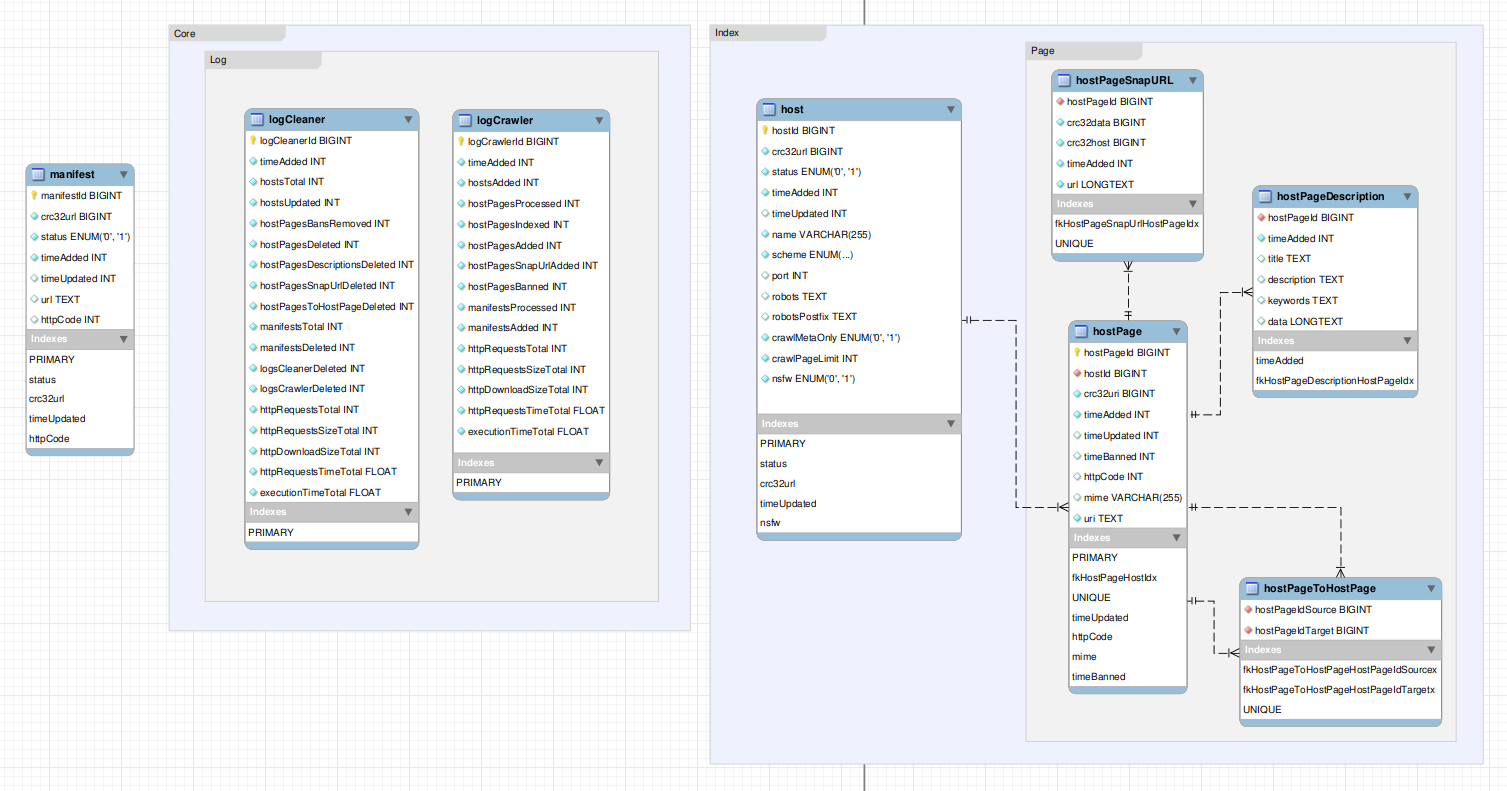
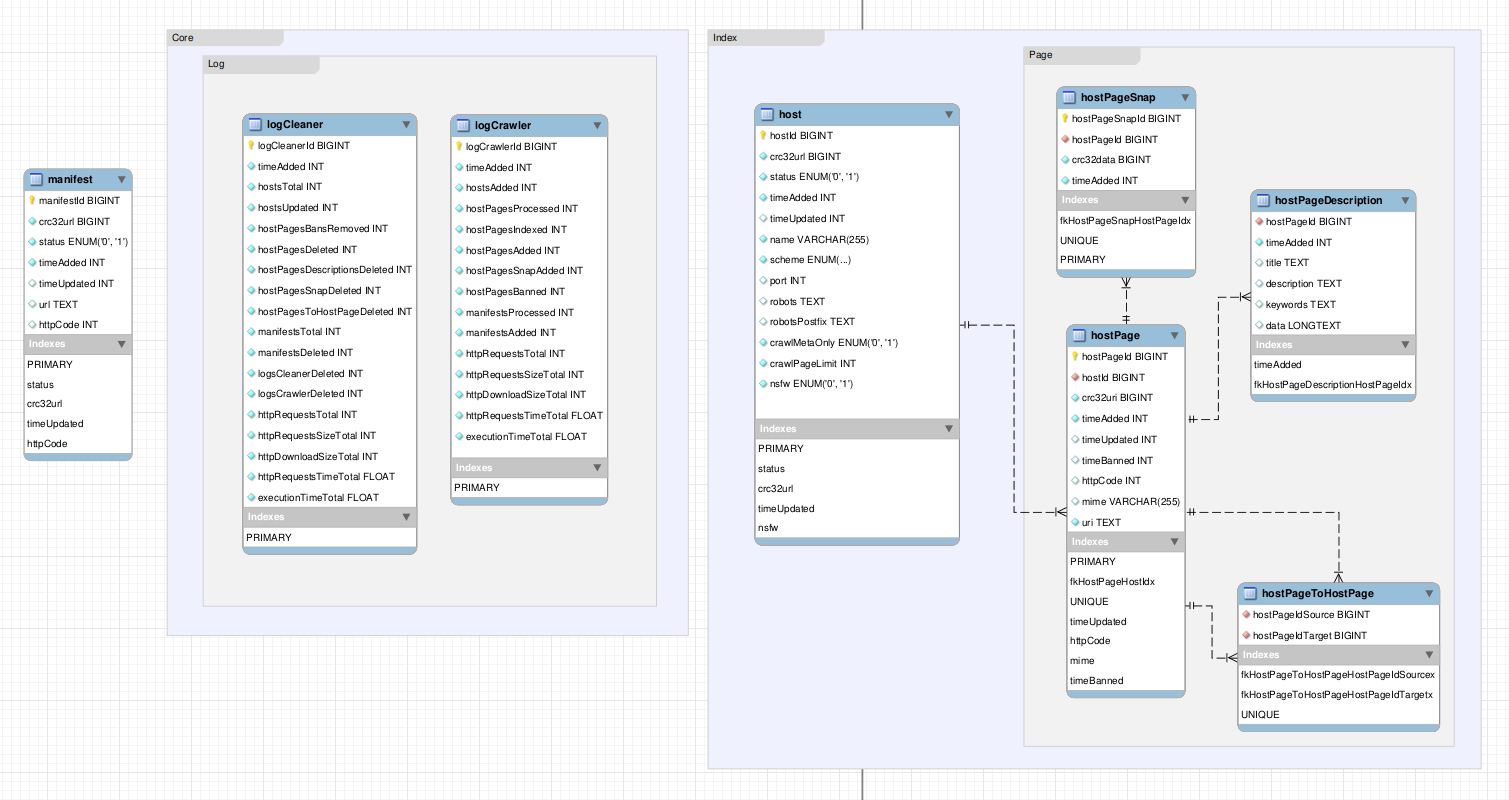
make local snap storage optimization

diff --git a/library/mysql.php b/library/mysql.php
@@ -360,59 +360,49 @@ class MySQL {
     return $query->fetchAll();
   }
 
-  public function addHostPageSnapURL(int $hostPageId,
-                                     int $crc32data,
-                                     int $crc32host,
-                                     string $url,
-                                     int $timeAdded) {
+  public function addHostPageSnap(int $hostPageId, string $crc32data, int $timeAdded) {
 
-    $query = $this->_db->prepare('INSERT IGNORE INTO `hostPageSnapURL` (`hostPageId`,
-                                                                        `crc32data`,
-                                                                        `crc32host`,
-                                                                        `url`,
-                                                                        `timeAdded`) VALUES (?, ?, ?, ?, ?)');
+    $query = $this->_db->prepare('INSERT IGNORE INTO `hostPageSnap` (`hostPageId`,
+                                                                     `crc32data`,
+                                                                     `timeAdded`) VALUES (?, ?, ?)');
 
-    $query->execute([$hostPageId,
-                     $crc32data,
-                     $crc32host,
-                     $url,
-                     $timeAdded]);
+    $query->execute([$hostPageId, $crc32data, $timeAdded]);
 
     return $query->rowCount();
   }
 
-  public function deleteHostPageSnapURL(int $hostPageId) {
+  public function deleteHostPageSnap(int $hostPageSnapId) {
 
-    $query = $this->_db->prepare('DELETE FROM `hostPageSnapURL` WHERE `hostPageId` = ?');
+    $query = $this->_db->prepare('DELETE FROM `hostPageSnap` WHERE `hostPageSnapId` = ? LIMIT 1');
 
-    $query->execute([$hostPageId]);
+    $query->execute([$hostPageSnapId]);
 
     return $query->rowCount();
   }
 
-  public function getTotalHostPageSnapURLs(int $hostPageId) {
+  public function getTotalHostPageSnaps(int $hostPageId) {
 
-    $query = $this->_db->prepare('SELECT COUNT(*) AS `total` FROM `hostPageSnapURL` WHERE `hostPageId` = ?');
+    $query = $this->_db->prepare('SELECT COUNT(*) AS `total` FROM `hostPageSnap` WHERE `hostPageId` = ?');
 
     $query->execute([$hostPageId]);
 
     return $query->fetch()->total;
   }
 
-  public function getHostPageSnapURLs(int $hostPageId) {
+  public function getHostPageSnaps(int $hostPageId) {
 
-    $query = $this->_db->prepare('SELECT * FROM `hostPageSnapURL` WHERE `hostPageId` = ? ORDER BY `timeAdded` DESC');
+    $query = $this->_db->prepare('SELECT * FROM `hostPageSnap` WHERE `hostPageId` = ? ORDER BY `timeAdded` DESC');
 
     $query->execute([$hostPageId]);
 
     return $query->fetchAll();
   }
 
-  public function getHostPageSnapURL(int $hostPageId, int $crc32data, int $crc32host) {
+  public function getHostPageSnap(int $hostPageId, int $crc32data) {
 
-    $query = $this->_db->prepare('SELECT * FROM `hostPageSnapURL` WHERE `hostPageId` = ? AND `hostPageId` = ? AND `crc32host` = ? LIMIT 1');
+    $query = $this->_db->prepare('SELECT * FROM `hostPageSnap` WHERE `hostPageId` = ? AND `hostPageId` = ? LIMIT 1');
 
-    $query->execute([$hostPageId, $crc32data, $crc32host]);
+    $query->execute([$hostPageId, $crc32data]);
 
     return $query->fetch();
   }
@@ -456,7 +446,7 @@ class MySQL {
                                 int $hostsUpdated,
                                 int $hostPagesDeleted,
                                 int $hostPagesDescriptionsDeleted,
-                                int $hostPagesSnapUrlDeleted,
+                                int $hostPagesSnapDeleted,
                                 int $hostPagesToHostPageDeleted,
                                 int $hostPagesBansRemoved,
                                 int $manifestsTotal,
@@ -474,7 +464,7 @@ class MySQL {
                                                             `hostsUpdated`,
                                                             `hostPagesDeleted`,
                                                             `hostPagesDescriptionsDeleted`,
-                                                            `hostPagesSnapUrlDeleted`,
+                                                            `hostPagesSnapDeleted`,
                                                             `hostPagesToHostPageDeleted`,
                                                             `hostPagesBansRemoved`,
                                                             `manifestsTotal`,
@@ -493,7 +483,7 @@ class MySQL {
       $hostsUpdated,
       $hostPagesDeleted,
       $hostPagesDescriptionsDeleted,
-      $hostPagesSnapUrlDeleted,
+      $hostPagesSnapDeleted,
       $hostPagesToHostPageDeleted,
       $hostPagesBansRemoved,
       $manifestsTotal,
@@ -586,7 +576,7 @@ class MySQL {
                                 int $hostPagesProcessed,
                                 int $hostPagesIndexed,
                                 int $hostPagesAdded,
-                                int $hostPagesSnapUrlAdded,
+                                int $hostPagesSnapAdded,
                                 int $hostPagesBanned,
                                 int $manifestsProcessed,
                                 int $manifestsAdded,
@@ -601,7 +591,7 @@ class MySQL {
                                                             `hostPagesProcessed`,
                                                             `hostPagesIndexed`,
                                                             `hostPagesAdded`,
-                                                            `hostPagesSnapUrlAdded`,
+                                                            `hostPagesSnapAdded`,
                                                             `hostPagesBanned`,
                                                             `manifestsProcessed`,
                                                             `manifestsAdded`,
@@ -617,7 +607,7 @@ class MySQL {
       $hostPagesProcessed,
       $hostPagesIndexed,
       $hostPagesAdded,
-      $hostPagesSnapUrlAdded,
+      $hostPagesSnapAdded,
       $hostPagesBanned,
       $manifestsProcessed,
       $manifestsAdded,

diff --git a/crontab/cleaner.php b/crontab/cleaner.php
@@ -31,7 +31,7 @@ $manifestsTotal               = $db->getTotalManifests();
 $hostsUpdated                 = 0;
 $hostPagesDeleted             = 0;
 $hostPagesDescriptionsDeleted = 0;
-$hostPagesSnapUrlDeleted      = 0;
+$hostPagesSnapDeleted         = 0;
 $hostPagesToHostPageDeleted   = 0;
 $manifestsDeleted             = 0;
 $hostPagesBansRemoved         = 0;
@@ -75,13 +75,23 @@ try {
 
       foreach ((array) $db->getHostPagesByLimit($host->hostId, $totalHostPages - $host->crawlPageLimit) as $hostPage) {
 
-        // Delete host page
-        $hostPagesDescriptionsDeleted += $db->deleteHostPageDescriptions($hostPage->hostPageId);
-        $hostPagesSnapUrlDeleted      += $db->deleteHostPageSnapURL($hostPage->hostPageId); // @TODO delete file
-        $hostPagesToHostPageDeleted   += $db->deleteHostPageToHostPage($hostPage->hostPageId);
-
         if ($hostPage->uri != '/') {
-            $hostPagesDeleted += $db->deleteHostPage($hostPage->hostPageId);
+
+          // Delete host page descriptions
+          $hostPagesDescriptionsDeleted += $db->deleteHostPageDescriptions($hostPage->hostPageId);
+
+          // Delete host page refs data
+          $hostPagesToHostPageDeleted += $db->deleteHostPageToHostPage($hostPage->hostPageId);
+
+          // Delete host page snaps
+          foreach ($db->getHostPageSnaps($hostPage->hostPageId) as $hostPageSnap) {
+            if (true === unlink('../public/snap/hp/' . chunk_split($hostPageSnap->hostPageId, 1, '/') . $hostPageSnap->timeAdded . '.zip')) {
+              $hostPagesSnapDeleted += $db->deleteHostPageSnap($hostPageSnap->hostPageSnapId);
+            }
+          }
+
+          // Delete host page
+          $hostPagesDeleted += $db->deleteHostPage($hostPage->hostPageId);
         }
       }
     }
@@ -91,16 +101,23 @@ try {
 
     foreach ($db->getHostPages($host->hostId) as $hostPage) {
 
-      if (!$robots->uriAllowed($hostPage->uri)) {
+      if ($hostPage->uri != '/' && !$robots->uriAllowed($hostPage->uri)) {
+
+        // Delete host page descriptions
+        $hostPagesDescriptionsDeleted += $db->deleteHostPageDescriptions($hostPage->hostPageId);
+
+        // Delete host page refs data
+        $hostPagesToHostPageDeleted += $db->deleteHostPageToHostPage($hostPage->hostPageId);
+
+        // Delete host page snaps
+        foreach ($db->getHostPageSnaps($hostPage->hostPageId) as $hostPageSnap) {
+          if (true === unlink('../public/snap/hp/' . chunk_split($hostPageSnap->hostPageId, 1, '/') . $hostPageSnap->timeAdded . '.zip')) {
+            $hostPagesSnapDeleted += $db->deleteHostPageSnap($hostPageSnap->hostPageSnapId);
+          }
+        }
 
         // Delete host page
-        $hostPagesDescriptionsDeleted += $db->deleteHostPageDescriptions($hostPage->hostPageId);
-        $hostPagesSnapUrlDeleted      += $db->deleteHostPageSnapURL($hostPage->hostPageId); // @TODO delete file
-        $hostPagesToHostPageDeleted   += $db->deleteHostPageToHostPage($hostPage->hostPageId);
-
-        if ($hostPage->uri != '/') {
-            $hostPagesDeleted += $db->deleteHostPage($hostPage->hostPageId);
-        }
+        $hostPagesDeleted += $db->deleteHostPage($hostPage->hostPageId);
       }
     }
   }
@@ -192,7 +209,7 @@ if (CLEAN_LOG_ENABLED) {
                       $hostsUpdated,
                       $hostPagesDeleted,
                       $hostPagesDescriptionsDeleted,
-                      $hostPagesSnapUrlDeleted,
+                      $hostPagesSnapDeleted,
                       $hostPagesToHostPageDeleted,
                       $hostPagesBansRemoved,
                       $manifestsTotal,
@@ -216,7 +233,7 @@ echo 'Manifests deleted: ' . $manifestsDeleted . PHP_EOL;
 
 echo 'Host page bans removed: ' . $hostPagesBansRemoved . PHP_EOL;
 echo 'Host page descriptions deleted: ' . $hostPagesDescriptionsDeleted . PHP_EOL;
-echo 'Host page snaps deleted: ' . $hostPagesSnapUrlDeleted . PHP_EOL;
+echo 'Host page snaps deleted: ' . $hostPagesSnapDeleted . PHP_EOL;
 echo 'Host page to host page deleted: ' . $hostPagesToHostPageDeleted . PHP_EOL;
 
 echo 'Cleaner logs deleted: ' . $logsCleanerDeleted . PHP_EOL;

diff --git a/crontab/crawler.php b/crontab/crawler.php
@@ -39,7 +39,7 @@ $manifestsAdded        = 0;
 $hostPagesAdded        = 0;
 $hostsAdded            = 0;
 $hostPagesBanned       = 0;
-$hostPagesSnapUrlAdded = 0;
+$hostPagesSnapAdded    = 0;
 
 // Connect database
 $db = new MySQL(DB_HOST, DB_PORT, DB_NAME, DB_USERNAME, DB_PASSWORD);
@@ -395,31 +395,31 @@ try {
         if (false !== stripos(Filter::mime($contentType), $mime)) {
 
           $crc32data = crc32($content);
-          $crc32host = crc32(''); // WEBSITE_DOMAIN, use empty for this host
 
           // Create not duplicated data snaps only for each storage host
-          if (!$db->getHostPageSnapURL($queueHostPage->hostPageId, $crc32data, $crc32host)) {
+          if (!$db->getHostPageSnap($queueHostPage->hostPageId, $crc32data)) {
 
             $time = time();
 
-            $dir = chunk_split($queueHostPage->hostPageId, 1, '/');
+            $directory = chunk_split($queueHostPage->hostPageId, 1, '/');
 
-            @mkdir('../public/snap/hp/' . $dir, 755, true);
+            @mkdir('../public/snap/hp/' . $directory, 755, true);
 
             $zip = new ZipArchive();
 
             // Create new container
-            if (true === $zip->open('../public/snap/hp/' . $dir . $time . '.zip', ZipArchive::CREATE)) {
+            if (true === $zip->open('../public/snap/hp/' . $directory . $time . '.zip', ZipArchive::CREATE)) {
 
               // Insert compressed snap data
-              if (true === $zip->addFromString($queueHostPage->hostPageId . '.' . $time . '.' . preg_replace('|^[A-z-]+/([A-z-]+).*|ui', '$1', Filter::mime($contentType)), $content)) {
+              if (true === $zip->addFromString('DATA', $content) &&
+                  true === $zip->addFromString('META', sprintf('TIMESTAMP: %s', $time) . PHP_EOL .
+                                                       sprintf('CRC32: %s',     $crc32data . PHP_EOL .
+                                                       sprintf('MIME: %s',      Filter::mime($contentType)) . PHP_EOL .
+                                                       sprintf('SOURCE: %s',    Filter::url(WEBSITE_DOMAIN . '/snap/hp/' . $directory . $time . '.zip')) . PHP_EOL .
+                                                       sprintf('TARGET: %s',    Filter::url($queueHostPageURL))))) {
 
                 // Update DB registry
-                $hostPagesSnapUrlAdded += $db->addHostPageSnapURL($queueHostPage->hostPageId,
-                                                                  $crc32data, // do not create duplicated content snaps
-                                                                  $crc32host, // multi host storage with same timestamp / crc32data
-                                                                  '/snap/hp/' . $dir . $time . '.zip', // public url
-                                                                  $time);
+                $hostPagesSnapAdded += $db->addHostPageSnap($queueHostPage->hostPageId, $crc32data, $time);
 
                 $zip->close();
 
@@ -748,7 +748,7 @@ if (CRAWL_LOG_ENABLED) {
                      $hostPagesProcessed,
                      $hostPagesIndexed,
                      $hostPagesAdded,
-                     $hostPagesSnapUrlAdded,
+                     $hostPagesSnapAdded,
                      $hostPagesBanned,
                      $manifestsProcessed,
                      $manifestsAdded,
@@ -765,7 +765,7 @@ echo 'Hosts added: ' . $hostsAdded . PHP_EOL;
 echo 'Pages processed: ' . $hostPagesProcessed . PHP_EOL;
 echo 'Pages indexed: ' . $hostPagesIndexed . PHP_EOL;
 echo 'Pages added: ' . $hostPagesAdded . PHP_EOL;
-echo 'Pages snaps added: ' . $hostPagesSnapUrlAdded . PHP_EOL;
+echo 'Pages snaps added: ' . $hostPagesSnapAdded . PHP_EOL;
 echo 'Pages banned: ' . $hostPagesBanned . PHP_EOL;
 
 echo 'Manifests processed: ' . $manifestsProcessed . PHP_EOL;

diff --git a/public/explore.php b/public/explore.php
@@ -234,18 +234,18 @@ $placeholder = Filter::plural($totalPages, [sprintf(_('Over %s page or enter the
           <p><?php echo date('c', $hostPage->timeAdded) ?></p>
           <p><?php echo _('Time updated') ?></p>
           <p><?php echo date('c', $hostPage->timeUpdated) ?></p>
-          <?php $totalHostPageSnapUrls = $db->getTotalHostPageSnapURLs($hp); ?>
+          <?php $totalHostPageSnaps = $db->getTotalHostPageSnaps($hp); ?>
           <p>
-            <?php echo Filter::plural($totalHostPageSnapUrls, [sprintf(_('%s snap'),  $totalHostPageSnapUrls),
-                                                                sprintf(_('%s snaps'), $totalHostPageSnapUrls),
-                                                                sprintf(_('%s snaps'), $totalHostPageSnapUrls),
-                                                              ]) ?>
+            <?php echo Filter::plural($totalHostPageSnaps, [sprintf(_('%s snap'),  $totalHostPageSnaps),
+                                                            sprintf(_('%s snaps'), $totalHostPageSnaps),
+                                                            sprintf(_('%s snaps'), $totalHostPageSnaps),
+                                                          ]) ?>
           </p>
-          <?php if ($totalHostPageSnapUrls) { ?>
-            <?php foreach ($db->getHostPageSnapURLs($hp) as $hostPageSnapUrl) { ?>
+          <?php if ($totalHostPageSnaps) { ?>
+            <?php foreach ($db->getHostPageSnaps($hp) as $hostPageSnap) { ?>
               <p>
-                <a href="<?php echo $hostPageSnapUrl->crc32host === 0 ? WEBSITE_DOMAIN . $hostPageSnapUrl->url : $hostPageSnapUrl->url ?>">
-                  <?php echo date('c', $hostPageSnapUrl->timeAdded) ?>
+                <a href="<?php echo WEBSITE_DOMAIN . '/snap/hp/' . chunk_split($hostPageSnap->hostPageId, 1, '/') . $hostPageSnap->timeAdded . '.zip' ?>">
+                  <?php echo date('c', $hostPageSnap->timeAdded) ?>
                 </a>
               </p>
             <?php } ?>

diff --git a/README.md b/README.md
@@ -148,7 +148,7 @@ GET m=SphinxQL
 * [x] Index explorer
 * [x] Safe images preview
 * [x] Extended search syntax support
-* [ ] Page content snaps history
+* [ ] Compressed page snaps history
   + [x] Local
   + [ ] Remote
 
@@ -157,6 +157,10 @@ GET m=SphinxQL
 * [x] CSS only, JS-less interface
 * [x] Unique ident icons for sites without favicons
 * [x] Content genre tabs (#1)
+* [x] Page index exploring feature
+  + [x] Meta
+  + [x] Snaps
+  + [x] Referrers
 * [ ] Results with found matches highlight
 * [ ] The time machine feature by content snaps history
 
